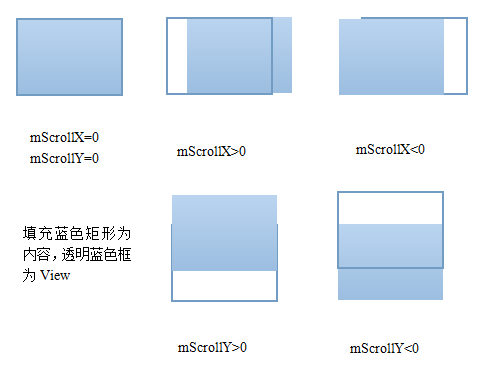
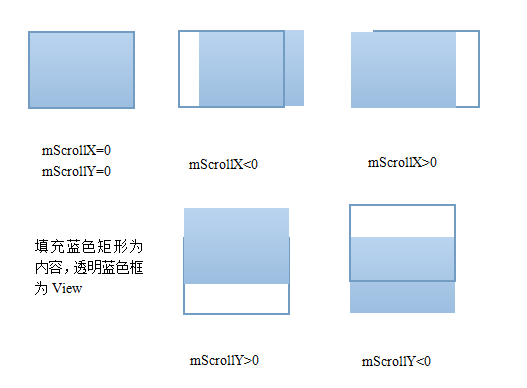
8.2
修改scrollX的错误

diff --git a/Blog/8、Scroll.md b/Blog/8、Scroll.md
@@ -41,8 +41,8 @@ public void scrollBy(int x, int y) {
 ```
 从源码中可以看出scrollBy实际上是调用了scrollTo函数来实现它的功能。scrollBy实现的是输入参数的相对滑动，而scrollTo是绝对滑动。需要说明的是mScrollX、mScrollY这两个View的属性，这两个属性可以通过getScrollX、getScrollY获得。<br>
 
-* mScrollX : View的左边缘与View内容的左边缘在水平方向上的距离，即从右向左滑动时，为正值，反之为负值。
-* mScrollY : View的上边缘与View内容的上边缘在竖直方向上的距离，即从下向上滑动时，为正值，反之为负值。
+* mScrollX : View的左边缘在View内容的左边缘的右边时，为正值，反之为负值。
+* mScrollY : View的上边缘在View内容的上边缘的下边时，为正值，反之为负值。
 <br>
 <img src="https://github.com/Idtk/Blog/blob/master/Image/mScrollXY.png" alt="mScrollXY" title="mScrollXY" width="500" />
 <br>
